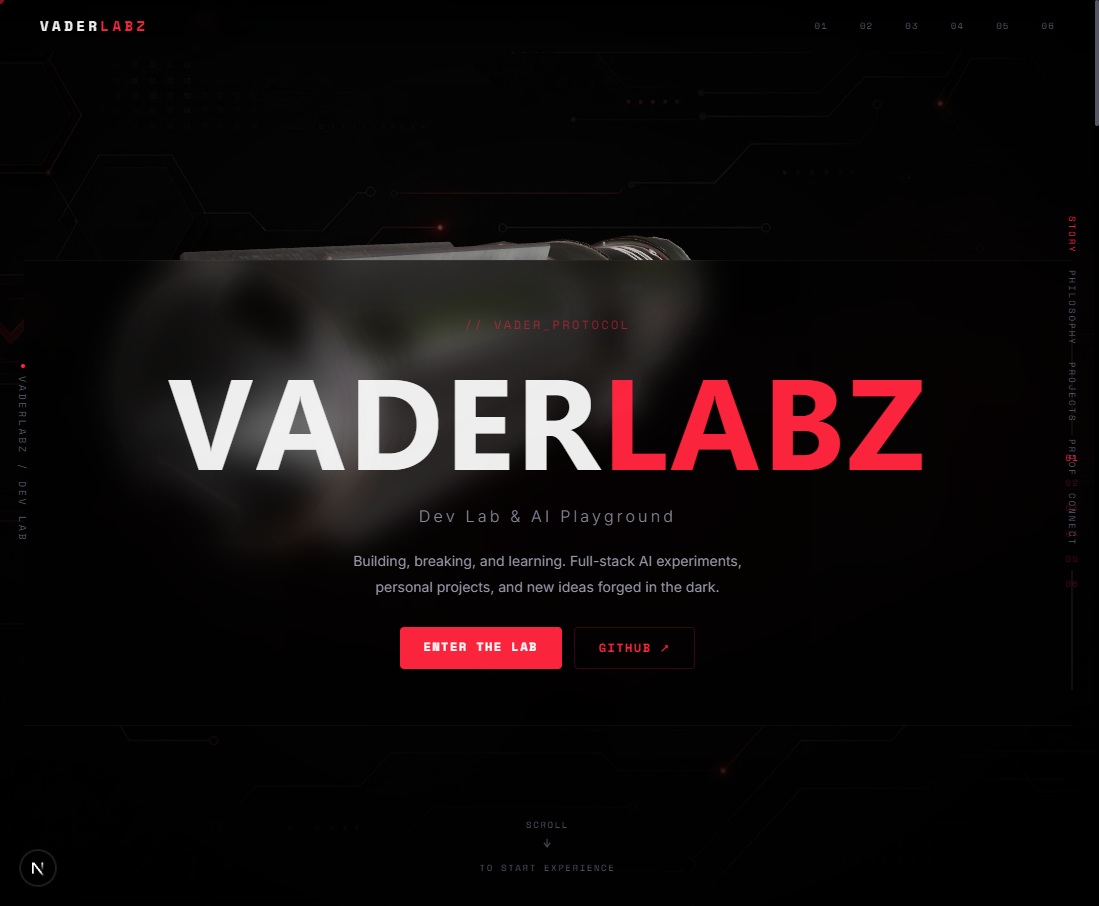
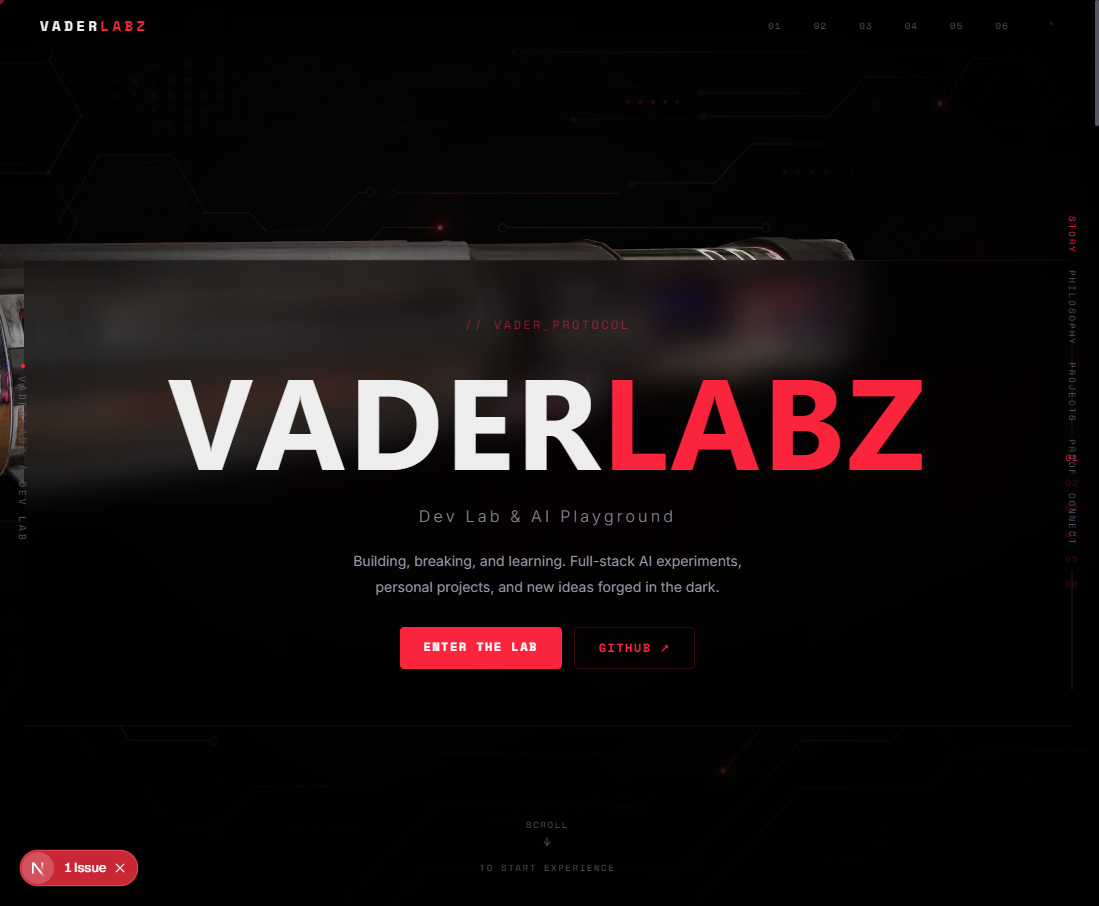
docs: update README with Vader-Engine style badges and template, add GitHub-README-Template skill
- Replaced README with premium badge setup (shields.io flat-square style)
- Added status table, comparison table, architecture diagram
- Updated screenshot to reflect new main site (/)
- Created GitHub-README-Template skill in .cursor/skills/ for reuse
- Updated SKILL-INDEX.md with new skill entry

diff --git a/README.md b/README.md
@@ -1,25 +1,158 @@
-## Screenshots
+# VaderLabz — Dev Lab & AI Playground
+
+**Building, breaking, and learning. Full-stack AI experiments, personal projects, and new ideas forged in the dark.**
+
+[![Version](https://img.shields.io/badge/version-2.0.0-blue?style=flat-square)]()
+[![Status](https://img.shields.io/badge/status-active-brightgreen?style=flat-square)]()
+[![Next.js](https://img.shields.io/badge/Next.js-16-black?style=flat-square&logo=next.js)](https://nextjs.org)
+[![Three.js](https://img.shields.io/badge/Three.js-R3F-gold?style=flat-square)](https://docs.pmnd.rs/react-three-fiber)
+[![TypeScript](https://img.shields.io/badge/TypeScript-5-3178C6?style=flat-square&logo=typescript)](https://www.typescriptlang.org/)
+[![Tailwind CSS](https://img.shields.io/badge/Tailwind_CSS-3-06B6D4?style=flat-square&logo=tailwindcss)](https://tailwindcss.com)
+[![License](https://img.shields.io/badge/license-MIT-green?style=flat-square)](LICENSE)
+[![Cursor](https://img.shields.io/badge/Cursor-Agent%20Ready-6C31C9?style=flat-square)](https://cursor.sh)
+
+---
+
+> **Live site:** [vaderlabz.com](https://vaderlabz.com/) — placeholder page until first deploy
+
+> **Source of Truth:** Read **TRUTH.md** for our master project identity, core commands, and architectural blueprint.
+
+---
+
+## 📊 Current Status
+
+| Metric | Value |
+|--------|-------|
+| **Version** | v2.0.0 ([Latest release](https://github.com/jonbeatz/VaderLabz/releases/latest)) |
+| **Stack** | Next.js 16 (App Router) + Three.js / R3F |
+| **3D Engine** | React-Three-Fiber + Drei + GSAP ScrollTrigger |
+| **Styling** | CSS Modules + Tailwind CSS v3 |
+| **Design** | Vader Red (#ff2a36) — dark cinematic palette |
+| **AI Backend** | LiteLLM proxy (DeepSeek V4) + LM Studio (local) |
+| **Memory** | Mem0 vector store (Qdrant) |
+| **Deploy** | Static export → Hostinger hPanel |
+| **Status** | 🟢 Active Development |
+
+## 🖼️ Screenshots
 
 ![VaderLabz Homepage](public/media/vaderlabz-screenshot.png)
 
-## Overview
+_The immersive 3D narrative homepage — lightsaber model, glassmorphism panels, and scroll-driven camera orbit._
 
-VaderLabz is a personal dev playground and portfolio site showcasing full-stack AI experiments, open-source projects, and tools built across the VaderLabz ecosystem. It features a dark, cinematic 3D UI powered by Three.js with the **Vader Red** (#ff2a36) design palette.
+## 🚀 Why VaderLabz?
 
-### Pages
+Most portfolios show what you made. **VaderLabz shows how you build.**
 
-| Page | Description |
-|------|-------------|
+| Capability | VaderLabz | Typical Portfolio |
+|------------|-----------|-------------------|
+| 3D Interactive Narrative | ✅ | ❌ |
+| Scroll-Driven Camera System | ✅ | ❌ |
+| Glassmorphism Design System | ✅ | ❌ |
+| Clickable Progress Navigation | ✅ | ❌ |
+| AI Co-Pilot (Draven) Integration | ✅ | ❌ |
+| Cross-Session Memory (Mem0) | ✅ | ❌ |
+| Dark Cinematic Palette | ✅ | ❌ |
+| Agent-Ready Documentation | ✅ | ❌ |
+
+## 🗺️ Pages
+
+| Route | Description |
+|-------|-------------|
 | **/** | **Main site** — immersive scroll-driven 3D narrative with lightsaber model, 5 chapters, glassmorphism panels |
 | **/vader-experience** | Redirects to `/` (legacy route) |
 | **/vader-experience-v2** | Safe fallback copy of the experience page for experimentation |
 | **/archive** | Original homepage (kept for reference) |
 
-### Projects featured
+## 🛠️ Tech Stack
 
-| Project | Status | Description |
-|---------|--------|-------------|
-| [Boilerplate-v2](https://github.com/jonbeatz/Boilerplate-v2) | Active | Cursor-native full-stack boilerplate with 52-point self-grader, isolated sandboxes, Biome, MCP |
-| [Node-Launcher](https://github.com/jonbeatz/Node-Launcher) | Active | Vader Project Engine — Electron launcher with SQLite, sandboxing, forge automation |
-| [MSC-Projectz](https://github.com/jonbeatz/MSC-Projectz) | Building | Project management dashboard for the VaderLabz ecosystem |
-| [Hermes Core Scripts](https://github.com/jonbeatz/_core-scripts) | Active | Shared-profile-content skeleton — reusable brain for bootstrapping new projects |
+| Layer | Technology |
+|-------|-----------|
+| **Framework** | Next.js 16 (App Router) — React 19 |
+| **Language** | TypeScript 5 |
+| **3D Engine** | Three.js / React-Three-Fiber / Drei |
+| **Animation** | GSAP / ScrollTrigger |
+| **Styling** | CSS Modules + Tailwind CSS v3 |
+| **Design** | Vader Red (#ff2a36) — dark cinematic palette |
+| **AI Backend** | LiteLLM proxy (DeepSeek V4) + LM Studio (local) |
+| **Memory** | Mem0 vector store (Qdrant) |
+| **Deploy** | Static export → Hostinger hPanel |
+
+## 🚀 Quick Start
+
+```bash
+git clone https://github.com/jonbeatz/VaderLabz.git
+cd VaderLabz
+npm install
+npm run web:dev      # Development server on http://localhost:3000
+npm run web:build    # Production build
+npm run web:start    # Start production server
+```
+
+### Available Commands
+
+| Command | Description |
+|---------|-------------|
+| `npm run web:dev` | Start Next.js dev server |
+| `npm run web:build` | Production build |
+| `npm run web:start` | Start production server |
+| `npm run backup:quick` | Quick project backup |
+| `npm run backup:full` | Full project mirror backup |
+| `npm run mem0:search` | Search Mem0 vector memory |
+| `npm run mem0:add` | Add to Mem0 memory |
+| `npm run session:start` | Start project session ritual |
+| `npm run session:stop` | Stop project session ritual |
+
+## 🏗️ Architecture
+
+```
+VaderLabz
+├── app/                    # Next.js App Router pages
+│   ├── page.tsx            # Main immersive 3D narrative page
+│   ├── archive/            # Original homepage (archived)
+│   ├── vader-experience/   # Legacy route → redirects to /
+│   └── vader-experience-v2/ # Safe fallback copy for experiments
+├── components/             # Shared React components
+│   ├── ThreeBackground     # 3D particle/starfield background
+│   ├── ArtefactScene       # 3D artefact display
+│   ├── CustomCursor        # Custom cursor component
+│   └── StudioRails         # Vignette + grain overlays
+├── lib/                    # Utility libraries & hooks
+│   ├── lenis-provider      # Lenis smooth scroll provider
+│   └── useGsapScroll       # GSAP ScrollTrigger hooks
+├── public/media/           # 3D models, HDR maps, images, screenshots
+├── scripts/                # Backup & utility scripts
+├── .cursor/                # Agent brain: rules, prompts, skills, docs
+└── TRUTH.md                # Project constitution & core rules
+```
+
+## 📚 Documentation
+
+| Document | Purpose |
+|----------|---------|
+| [TRUTH.md](TRUTH.md) | Project constitution & core rules |
+| [CHANGELOG.md](CHANGELOG.md) | Release history |
+| [ENV-VARS-REFERENCE.md](ENV-VARS-REFERENCE.md) | Environment variable registry |
+| [SKILL-INDEX.md](SKILL-INDEX.md) | Available domain skills |
+| [TROUBLESHOOTING.md](TROUBLESHOOTING.md) | Known issues & fixes |
+| [AGENTS.md](AGENTS.md) | Agent instructions |
+| `.cursor/docs/START-HERE.md` | Daily ops & doc order |
+| `.cursor/docs/MASTER-COMMANDS.md` | Command reference |
+| `.cursor/docs/ReCall.md` | Session memory log |
+| `.cursor/docs/project-log.md` | Session history |
+
+## 🎨 Design System
+
+- **Primary Accent:** `#ff2a36` (Vader Red)
+- **Background:** `#000000` (Deep Black)
+- **Text:** `#f0f0f0` / `#888899` / `#555566` (3-tier hierarchy)
+- **Glass:** `rgba(0,0,0,0.55)` with `backdrop-filter: blur(12px)`
+- **Typography:** Inter (sans-serif) + JetBrains Mono (code/monospace)
+- **3D Scene:** Lightsaber model with scroll-driven camera orbit & mouse parallax
+
+## 📄 License
+
+MIT © VaderLabz
+
+---
+
+*Powered by the VaderLabz Dev Engine · v2.0.0*

diff --git a/.cursor/skills/GitHub-README-Template/SKILL.md b/.cursor/skills/GitHub-README-Template/SKILL.md
@@ -1,0 +1,66 @@
+# README-Template.md — GitHub README Template
+
+**Purpose:** Standard template for all VaderLabz/MSC GitHub project READMEs.
+**Reference:** https://github.com/jonbeatz/Vader-Engine (JonBeatz Command Center style)
+
+## Template Structure
+
+Every GitHub README should follow this structure:
+
+### 1. Header
+```
+# Project Name — Tagline
+
+**One-sentence description of what this project does.**
+
+[![Version](https://img.shields.io/badge/version-X.X.X-blue?style=flat-square)]()
+[![Status](https://img.shields.io/badge/status-active-brightgreen?style=flat-square)]()
+[![Framework](https://img.shields.io/badge/Framework-Version-black?style=flat-square&logo=next.js)]()
+[![Language](https://img.shields.io/badge/Language-Version-3178C6?style=flat-square&logo=typescript)]()
+[![License](https://img.shields.io/badge/license-MIT-green?style=flat-square)](LICENSE)
+[![Cursor](https://img.shields.io/badge/Cursor-Agent%20Ready-6C31C9?style=flat-square)](https://cursor.sh)
+```
+
+### 2. Source of Truth banner
+```
+> **Source of Truth:** Read **TRUTH.md** for our master project identity, core commands, and architectural blueprint.
+```
+
+### 3. Status Table
+```
+| Metric | Value |
+|--------|-------|
+| **Version** | vX.X.X |
+| **Stack** | ... |
+| **Status** | 🟢 Active Development |
+```
+
+### 4. Screenshots Section
+```
+## Screenshots
+
+![Description](path/to/screenshot.png)
+```
+
+### 5. Why This Project (comparison table)
+```
+| Capability | This Project | Typical Alternative |
+|------------|--------------|---------------------|
+| Feature 1 | ✅ | ❌ |
+```
+
+### 6. Pages / Routes (for web projects)
+### 7. Tech Stack Table
+### 8. Quick Start
+### 9. Architecture
+### 10. Documentation Table
+### 11. Design System (if applicable)
+### 12. License
+
+## Rules
+
+- Use `style=flat-square` for all shields.io badges
+- Include Cursor badge for agent-ready projects
+- Screenshots go in `public/media/` or root-level `media/`
+- Always link to the latest release
+- Use emoji headers sparingly (🚀, 🛠️, 🖼️, etc.) — keep it professional

diff --git a/SKILL-INDEX.md b/SKILL-INDEX.md
@@ -58,6 +58,13 @@ Searchable catalog of all portable skills available in `shared-profile-content/s
 |-------|------|---------|--------|
 | Google-Workspace | google, gmail, calendar, drive, automation | Google automation via Hermes — Gmail, Calendar, Drive operations | JonBeatz |
 | Image-Workflow | image, hf, comfyui, genai, upscale, video | HF cloud generation + ComfyUI local edit/upscale/video pipeline | JonBeatz |
+| Background-Removal | image, processing, rembg, u2net, python | AI background removal with rembg + U^2-Net — transparent PNG pipeline, CLI tool | VaderLabz |
+
+## GitHub & Docs
+
+| Skill | Tags | Purpose | Source |
+|-------|------|---------|--------|
+| GitHub-README-Template | github, readme, badges, template, docs | Standard GitHub README template with shields.io badges, status table, comparison table, screenshots | VaderLabz |
 
 ---
 